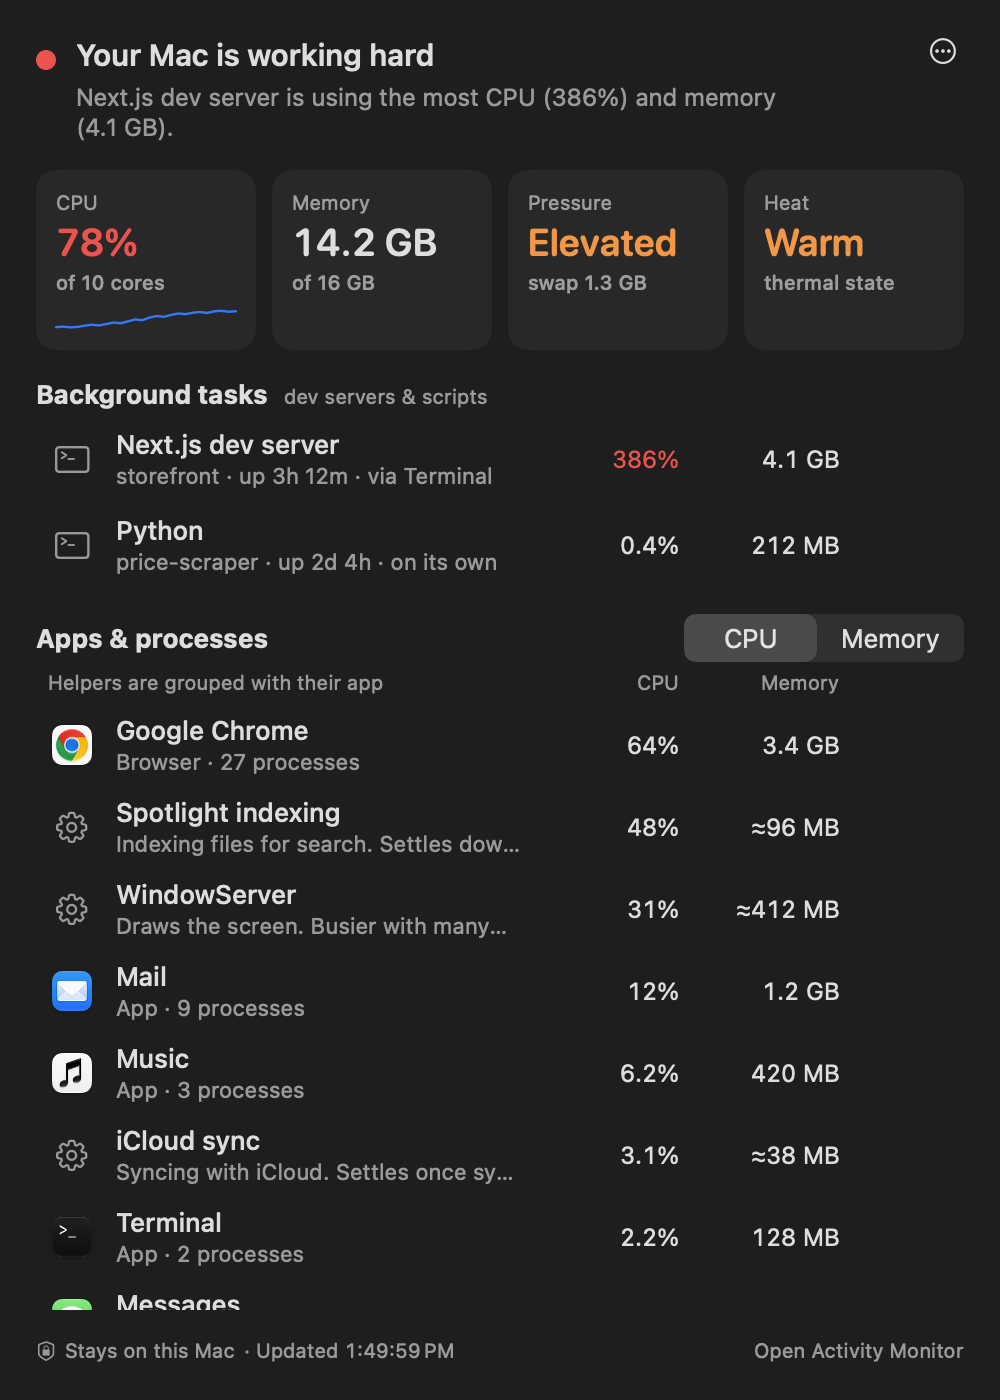
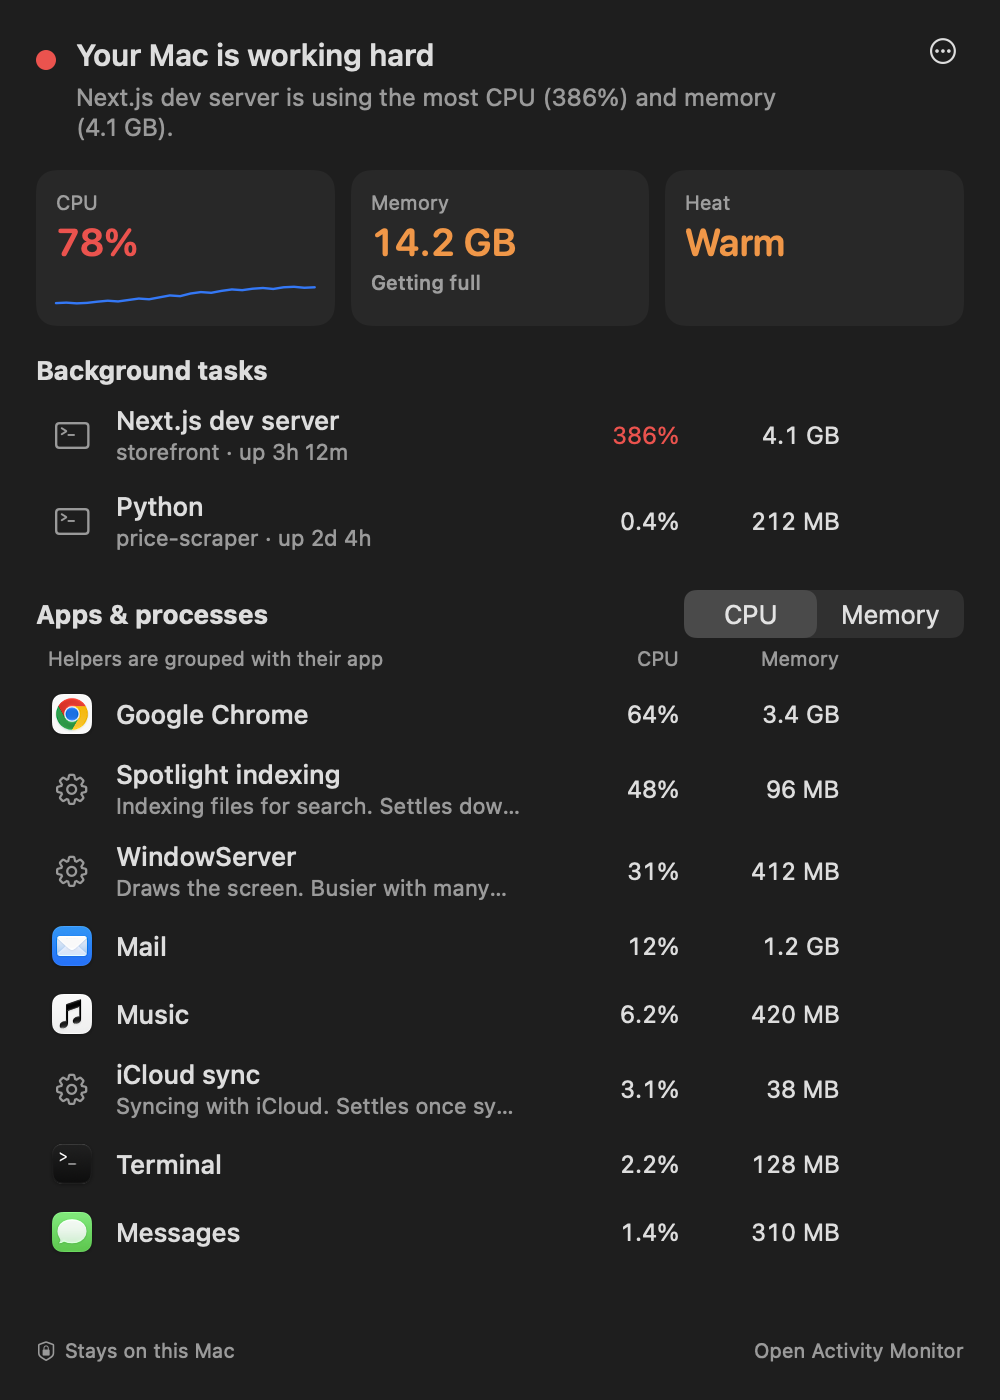
Simplify the panel: three tiles, one-line rows
- Tiles: CPU, Memory and Heat. Memory pressure is folded into the
  Memory tile, which changes colour and reads "Getting full" or
  "Almost full"; swap and pressure move to its tooltip.
- Rows: apps are a single line. A second line stays only where it
  helps decide: project folder and uptime for tasks, the plain-English
  note for macOS services. Helper counts and what started a task move
  to the tooltip.
- Drop the estimated-memory sign, the tasks caption and the footer's
  update time.
- Re-take both screenshots from the simplified panel and bring the
  README in line with it and with the new icon.

diff --git a/Sources/PanelView.swift b/Sources/PanelView.swift
@@ -56,21 +56,22 @@ struct PanelView: View {
     private var tiles: some View {
         let system = model.system
         let cpu = system?.cpu
-        let swap = system?.swapUsed.map(memoryLabel) ?? "—"
+        let pressure = system?.pressure
+        // Memory pressure is folded into the Memory tile: it changes colour and says so in plain words.
+        var memoryNote = system.map { "of \(memoryLabel($0.totalMemory))" } ?? ""
+        if pressure == .elevated { memoryNote = "Getting full" }
+        if pressure == .high { memoryNote = "Almost full" }
+        let swap = system?.swapUsed.map(memoryLabel) ?? "unknown"
         return HStack(spacing: 8) {
-            Tile(title: "CPU", value: cpu.map { String(format: "%.0f%%", $0) } ?? "…", detail: "of \(cores) cores",
+            Tile(title: "CPU", value: cpu.map { String(format: "%.0f%%", $0) } ?? "…", detail: "",
                  tone: (cpu ?? 0) >= 75 ? .critical : (cpu ?? 0) >= 40 ? .warning : .normal) {
                 Sparkline(values: model.cpuHistory)
             }
-            .help("Whole-Mac CPU use. The line shows the last few minutes.")
-            Tile(title: "Memory", value: system.map { memoryLabel($0.usedMemory) } ?? "…",
-                 detail: system.map { "of \(memoryLabel($0.totalMemory))" } ?? " ", tone: .normal)
-                .help("Memory in use by apps, macOS and compression — the same figure as Activity Monitor.")
-            Tile(title: "Pressure", value: system?.pressure.label ?? "…", detail: "swap \(swap)",
-                 tone: system?.pressure == .high ? .critical : system?.pressure == .elevated ? .warning : .normal)
-                .help("How hard macOS is working to fit everything in memory. High pressure makes everything slower.")
-            Tile(title: "Heat", value: system?.thermal.label ?? "…", detail: "thermal state",
-                 tone: thermalTone(system?.thermal))
+            .help("Whole-Mac CPU use across \(cores) cores. The line shows the last few minutes.")
+            Tile(title: "Memory", value: system.map { memoryLabel($0.usedMemory) } ?? "…", detail: memoryNote,
+                 tone: pressure == .high ? .critical : pressure == .elevated ? .warning : .normal)
+                .help("Memory in use\(system.map { " of \(memoryLabel($0.totalMemory))" } ?? ""), the same figure as Activity Monitor. It turns orange or red when macOS is struggling to fit everything in.\nMemory pressure: \(pressure?.label ?? "unknown") · Swap used: \(swap)")
+            Tile(title: "Heat", value: system?.thermal.label ?? "…", detail: "", tone: thermalTone(system?.thermal))
                 .help("macOS’s thermal state. When it’s Hot, macOS slows the processor down to cool off.")
         }
     }
@@ -85,11 +86,8 @@ struct PanelView: View {
 
     private var tasksSection: some View {
         VStack(alignment: .leading, spacing: 2) {
-            HStack(alignment: .firstTextBaseline) {
-                Text("Background tasks").font(.headline)
-                Text("dev servers & scripts").font(.caption).foregroundStyle(.secondary)
-            }
-            .padding(.bottom, 2)
+            Text("Background tasks").font(.headline).padding(.bottom, 2)
+                .help("Dev servers and scripts running outside an app, grouped by project folder.")
             if model.scan == nil {
                 Text("Looking…").font(.callout).foregroundStyle(.secondary)
             } else if tasks.isEmpty {
@@ -137,9 +135,6 @@ struct PanelView: View {
         HStack(spacing: 4) {
             Image(systemName: "lock.shield").accessibilityHidden(true)
             Text("Stays on this Mac")
-            if let time = model.system?.timestamp {
-                Text("· Updated \(time.formatted(date: .omitted, time: .standard))").monospacedDigit()
-            }
             Spacer()
             Button("Open Activity Monitor") { Actions.openActivityMonitor() }.buttonStyle(.link)
         }
@@ -175,13 +170,15 @@ struct UsageRow: View {
             icon.frame(width: 24, height: 24)
             VStack(alignment: .leading, spacing: 1) {
                 Text(app.name).font(.system(size: 13, weight: .medium)).lineLimit(1).truncationMode(.middle)
-                Text(subtitle).font(.system(size: 11)).foregroundStyle(.secondary).lineLimit(1)
+                if let subtitle {
+                    Text(subtitle).font(.system(size: 11)).foregroundStyle(.secondary).lineLimit(1)
+                }
             }
             Spacer(minLength: 6)
             Text(measured ? cpuLabel(app.cpu) : "—")
                 .foregroundStyle(app.cpu >= 300 ? Color.red : app.cpu >= 100 ? Color.orange : Color.primary)
                 .frame(width: 52, alignment: .trailing)
-            Text((app.memoryEstimated && app.kind != .app ? "≈" : "") + memoryLabel(app.memory))
+            Text(memoryLabel(app.memory))
                 .frame(width: 70, alignment: .trailing)
             action.frame(width: 46, alignment: .trailing)
         }
@@ -232,22 +229,22 @@ struct UsageRow: View {
 
     private var processCount: String { "\(app.pids.count) process\(app.pids.count == 1 ? "" : "es")" }
 
-    private var subtitle: String {
+    /// A second line only where it helps someone decide: which project a task belongs to and how long
+    /// it has run, or what a background service is. Everything else lives in the tooltip.
+    private var subtitle: String? {
         switch app.kind {
         case .task:
             var parts: [String] = []
             if let folder = app.folder { parts.append((folder as NSString).lastPathComponent) }
             if let time = app.runningFor { parts.append("up \(durationLabel(time))") }
-            parts.append(app.launchedBy.map { "via \($0)" } ?? "on its own")
-            return parts.joined(separator: " · ")
+            return parts.isEmpty ? nil : parts.joined(separator: " · ")
         case .app:
             if app.isSelf { return "This app" }
-            if app.isBrowser { return "Browser · \(processCount)" }
-            return app.canQuit ? "App · \(processCount)" : "Runs in the background · \(processCount)"
+            return app.canQuit ? nil : "Runs in the background"
         case .system:
             return app.hint ?? "Part of macOS"
         case .other:
-            return app.hint ?? "Background process · \(processCount)"
+            return app.hint ?? "Background process"
         }
     }
 
@@ -260,8 +257,10 @@ struct UsageRow: View {
             lines.append(app.canQuit ? "You can quit this app if you aren’t using it — hover and click Quit, or right-click."
                                      : "This app doesn’t have a normal Quit.")
             if app.isBrowser { lines.append("To see which tab is heavy: right-click → Find Heavy Tabs.") }
+            if app.pids.count > 1 { lines.append("Includes its helpers: \(processCount).") }
         case .task:
             if let folder = app.folder { lines.append("Folder: \(abbreviatedPath(folder))") }
+            lines.append(app.launchedBy.map { "Started by \($0)." } ?? "Not started by an app that’s still running.")
             lines.append("A developer task left running. Stop it if you aren’t using it — usually from its terminal with Control-C, or with Stop here.")
         case .system:
             lines.append((app.hint.map { $0 + " " } ?? "") + "Part of macOS — usually best left alone.")
@@ -301,11 +300,13 @@ struct Tile<Accessory: View>: View {
             Text(title).font(.caption).foregroundStyle(.secondary)
             Text(value).font(.system(size: 19, weight: .semibold, design: .rounded)).monospacedDigit()
                 .foregroundStyle(tone.color).lineLimit(1).minimumScaleFactor(0.6)
-            Text(detail).font(.caption2).foregroundStyle(.secondary).lineLimit(1)
+            if !detail.isEmpty {
+                Text(detail).font(.caption2).foregroundStyle(.secondary).lineLimit(1)
+            }
             Spacer(minLength: 0)
             accessory
         }
-        .frame(maxWidth: .infinity, minHeight: 70, maxHeight: 70, alignment: .topLeading)
+        .frame(maxWidth: .infinity, minHeight: 58, maxHeight: 58, alignment: .topLeading)
         .padding(10)
         .background(RoundedRectangle(cornerRadius: 10).fill(Color.primary.opacity(0.05)))
         .accessibilityElement(children: .combine)

diff --git a/README.md b/README.md
@@ -1,9 +1,9 @@
-<p align="center"><img src="site/assets/icon.png" width="128" height="128" alt="MacSweat icon: a nervous laptop with a bead of sweat"></p>
+<p align="center"><img src="site/assets/icon.png" width="128" height="128" alt="MacSweat icon: a nervous face with a bead of sweat"></p>
 
 <h1 align="center">MacSweat</h1>
 <p align="center"><b>Why is your Mac sweating?</b><br>A free menu bar app that shows, in one click, what's heating up or slowing down your Mac, so you can close it yourself.</p>
 
-<p align="center"><img src="site/assets/screenshot-light.png" width="500" alt="The MacSweat panel: a verdict line, CPU, memory, pressure and heat tiles, background dev tasks, and apps sorted by CPU"></p>
+<p align="center"><img src="site/assets/screenshot-light.png" width="500" alt="The MacSweat panel: a verdict line, CPU, memory and heat tiles, background dev tasks, and apps sorted by CPU"></p>
 
 ## Install
 
@@ -17,15 +17,15 @@ The script downloads the latest release from GitHub and checks its SHA-256. Then
 curl -fsSL https://macsweat.parthh.dev/uninstall | sh
 ```
 
-**Requirements:** macOS 13 Ventura or later, Apple silicon or Intel. On macOS 26 and later, if the drop icon doesn't show up, allow MacSweat in System Settings ▸ Menu Bar.
+**Requirements:** macOS 13 Ventura or later, Apple silicon or Intel. On macOS 26 and later, if the menu bar icon doesn't show up, allow MacSweat in System Settings ▸ Menu Bar.
 
 **Why a Terminal command?** MacSweat is free and isn't notarized by Apple (notarization needs a $99/year developer account). So macOS would block a zip downloaded in a browser. The install script avoids that, and it's short enough to read.
 
 ## What it shows
 
 - **A one-line verdict:** for example, "Your Mac is working hard. Next.js dev server is using the most CPU (386%) and memory (4.1 GB)." A dot next to it turns green, orange or red.
-- **CPU, memory, memory pressure, swap and heat.** Memory matches Activity Monitor's "Memory Used". Heat is macOS's thermal state; when it says *Hot*, macOS is slowing down to cool off.
-- **Background tasks:** dev servers and scripts (Node.js, Next.js, Vite, Python, PostgreSQL…), grouped by project. Each shows how long it has been running and which app started it, or "on its own" if it was left behind.
+- **CPU, memory and heat.** Memory matches Activity Monitor's "Memory Used", and the tile turns orange or red when macOS is struggling to fit everything in. Heat is macOS's thermal state; when it says *Hot*, macOS is slowing down to cool off.
+- **Background tasks:** dev servers and scripts (Node.js, Next.js, Vite, Python, PostgreSQL…), grouped by project. Each shows its project folder and how long it has been running.
 - **Apps & processes,** sorted by CPU or memory:
   - Helpers are grouped with their app, so Chrome's 25 helpers count as Chrome and WebKit pages count under Safari.
   - macOS services get plain names like "Spotlight indexing" or "iCloud sync".
